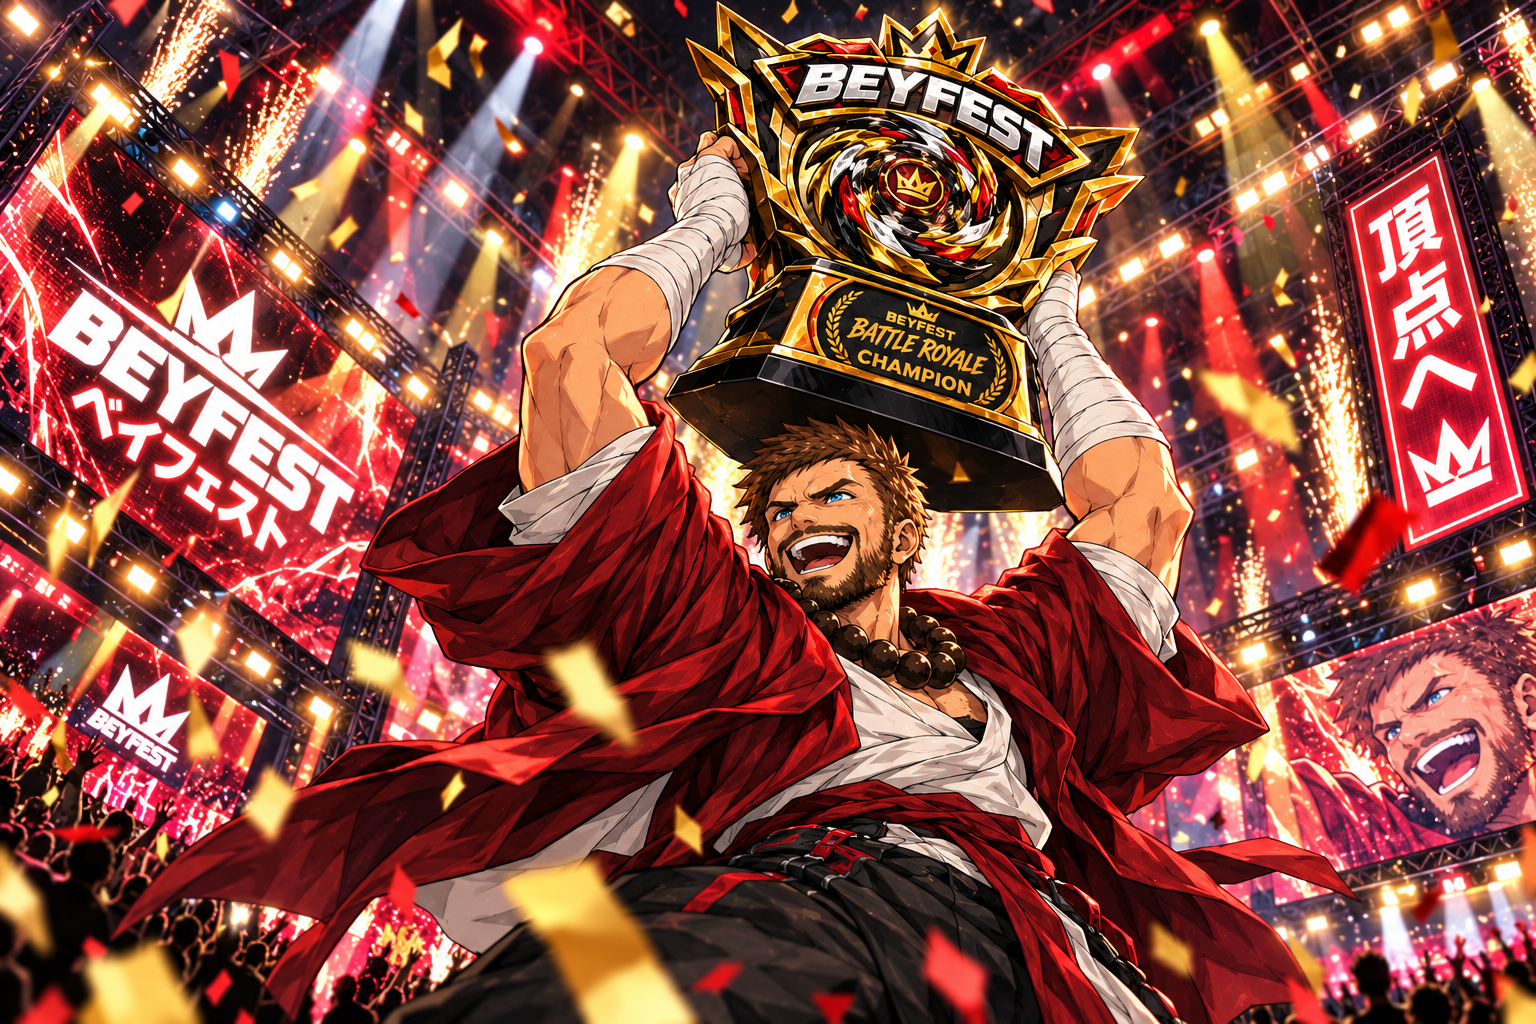
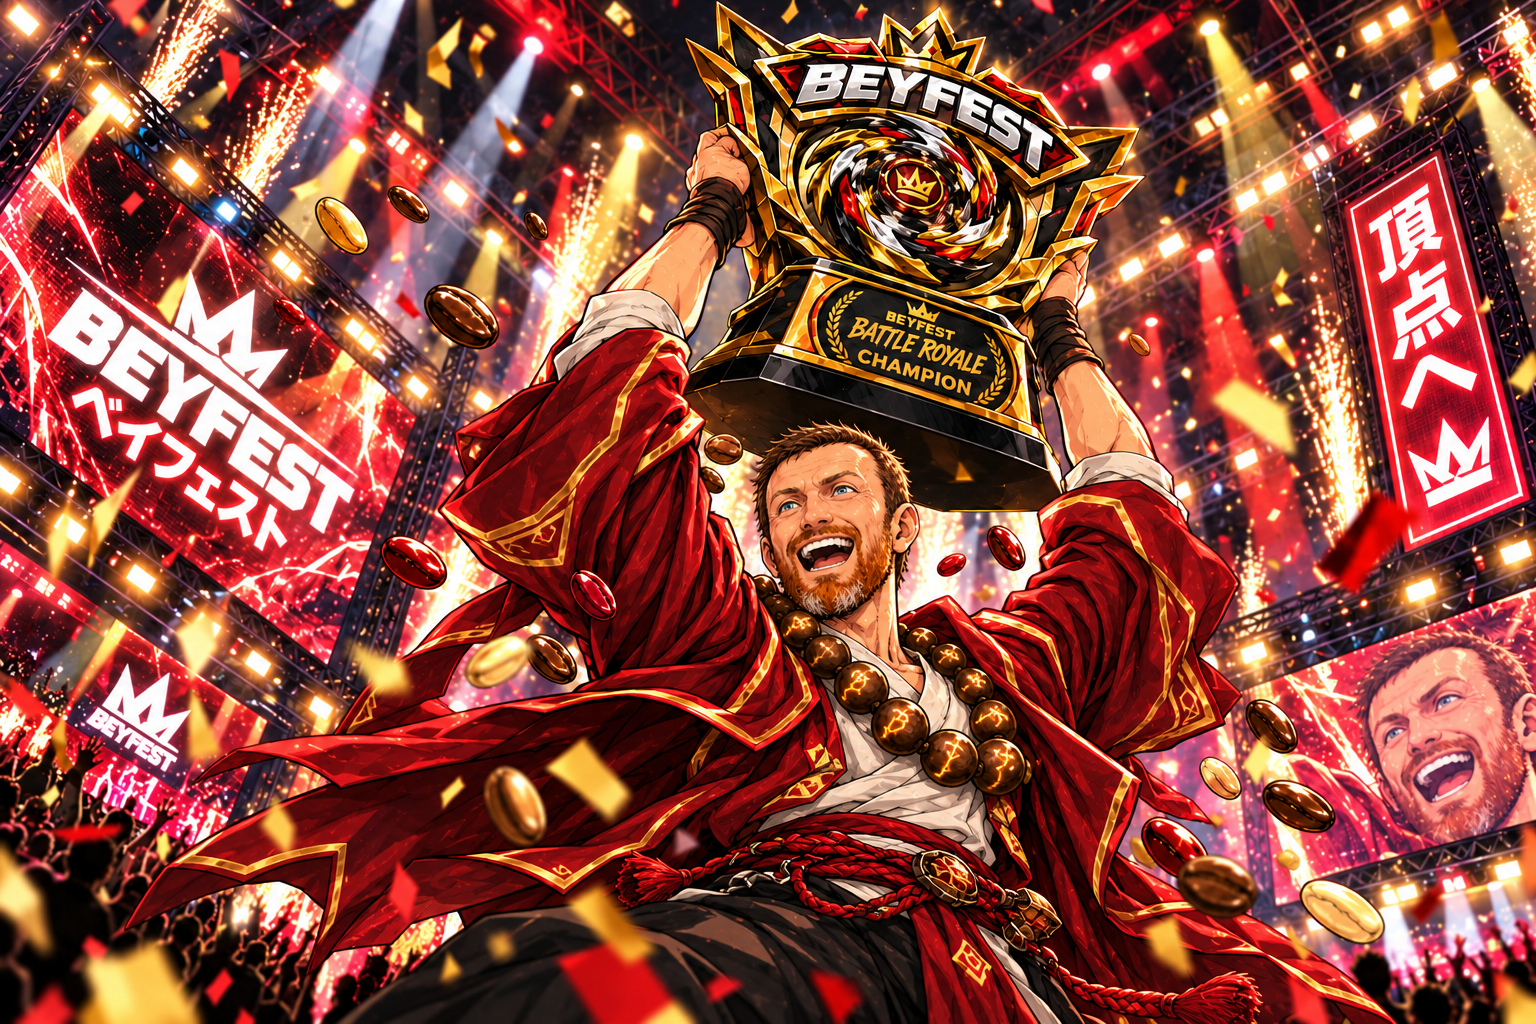
new Beanblader victory and royale victory images

diff --git a/fighter-art/prompts/beanblader.md b/fighter-art/prompts/beanblader.md
@@ -62,3 +62,20 @@ master), `3-photo-smile.jpg`, `4-photo-older-front.jpg`.
 | B | Edit of A: no launcher or ripcord (the Beyblade spins off his open palm, user's idea), the other hand in a mudra; inked face, wider serene smile, headroom, beads float free, glow beneath | Palm launch, mudra, floating beads and headroom all landed; transparent. The face is a little more inked but still fairly smooth, and the smile is only a touch wider |
 | C | Edit of B: harder inking and a wider blissful smile; Beyblade closer to his palm; beads back on his neck; floating beans (coffee and broad beans, bronze/cream/crimson) in place of the bead ring | Face clearly more hand-drawn (crow's feet, laugh lines, inked hair), a bigger smile; beans read well; transparent. The hair tips come close to the top edge again, and the mudra fingers rest on a bead |
 | D | Edit of C, hands only: a rustic carved wooden launcher (wood grain, brass rivets, twine) in the outstretched hand; the other hand has pulled the ripcord free (replacing the mangled mudra fingers) | Both hands well formed; the launcher reads as rustic wood; the ripcord is free of the launcher; face, beans and beads unchanged; transparent. The ripcord doubles back on itself a little in his hand |
+
+## Victory images (2026-10-30): approved
+
+Approved first time: `approved/victory-beanblader.png`,
+`approved/royale-victory-beanblader.png`.
+
+Recipe: a new chat each, with four attachments (old victory image as the scene
+template, approved cut-out for the outfit, Pugilist head close-up for the rendering,
+and the master photo for an eyes-open likeness, since his action image has his eyes
+closed). A few floating beans drift through the confetti.
+
+- **Belt A** (`candidates/victory-beanblader-A.png`): an open-mouthed laugh with
+  crinkled eyes; good likeness; rune beads; beans in the confetti. The belt's name
+  plates are jumbled, as in the template.
+- **Royale A** (`candidates/royale-victory-beanblader-A.png`): a roar of joy with
+  eyes open; good likeness. The first send went without its images (the drag hadn't
+  finished); re-attaching in the same chat and saying "as described above" worked.

diff --git a/fighter-art/POSE-PLAN.md b/fighter-art/POSE-PLAN.md
@@ -49,7 +49,7 @@ twelve versions of one shot.
 - **Mood:** serene, exaggerated: eyes closed in deep calm, brows lifted, a broad, peaceful smile.
 - **Likeness:** from Ronan's photos (`likeness/beanblader.md`), the newest one as master: a long narrow face, short dark brown hair, a short ginger-auburn beard, slim.
 - **Outfit, leaning cyberpunk (user's choice), same silhouette:** a crimson tech-monk robe with panel seams and glowing bronze trim over a cream undershirt; the big wooden beads carry faint glowing runes.
-- **Status:** **approved 2026-10-30** as `approved/beanblader.png` (version D). History in `prompts/beanblader.md`. In the app with a new face point; the victory images still need redoing.
+- **Status:** **approved 2026-10-30** as `approved/beanblader.png` (version D). History in `prompts/beanblader.md`. In the app with a new face point; both victory images redone (2026-10-30).
 - **Note:** replaces the old open-hand reach, which had no launcher or ripcord. This also replaces the earlier sliding-launch plan.
 
 **2. The Beyby** (Eamon): hoodie, face mask, pink and purple
